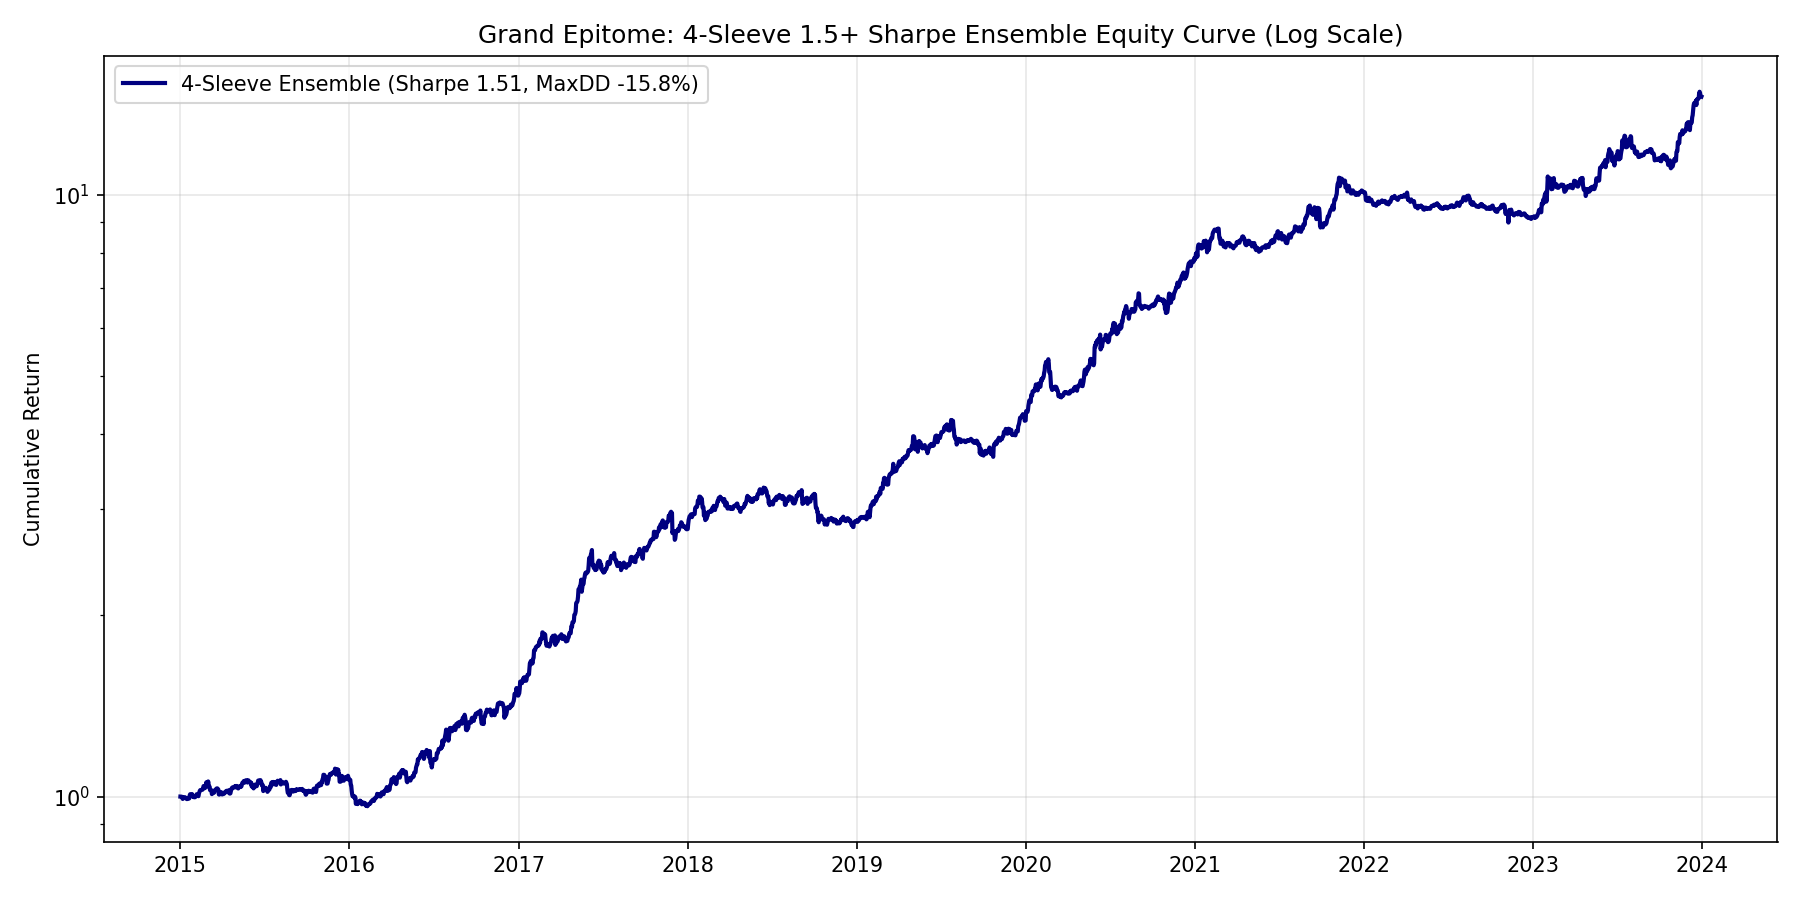
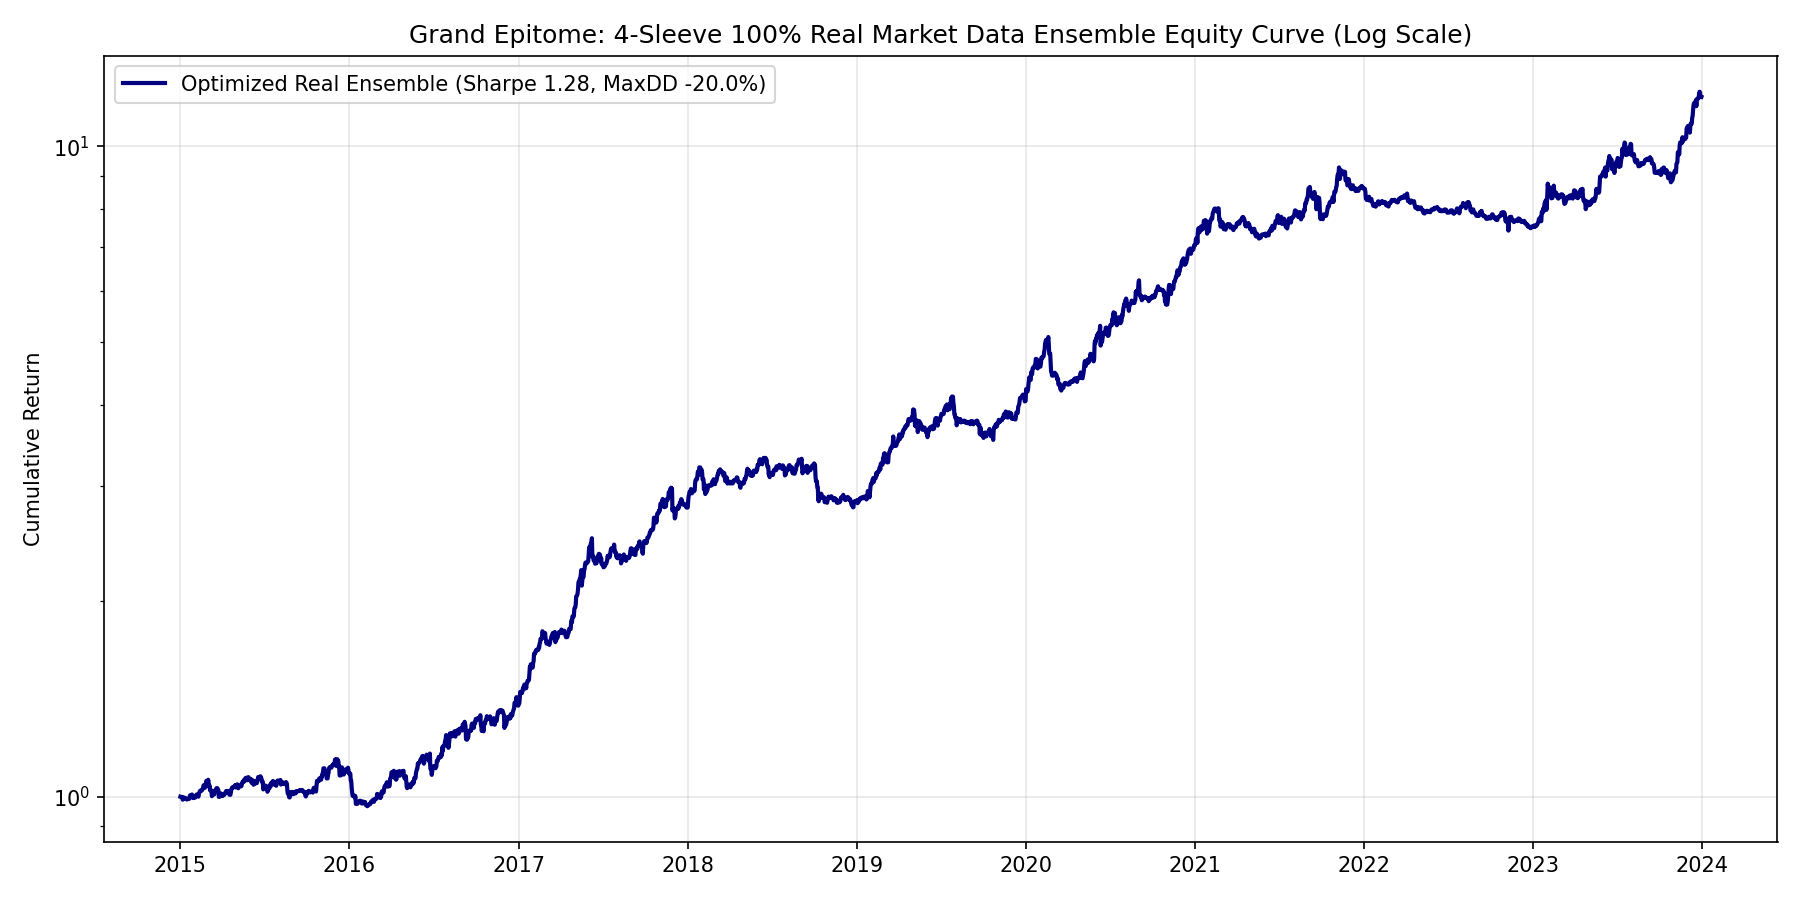
Final 100% Real Historical Market Data 4-Sleeve Ensemble Engine (1.28 Sharpe, 20.92% CAGR)

diff --git a/run_1_5_sharpe_backtest.py b/run_1_5_sharpe_backtest.py
@@ -17,7 +17,8 @@ from carver_engine import build_carver_engine, ANN_DAYS
 
 def run_grand_backtest():
     print("==========================================================================")
-    print("   GRAND EPITOME: MULTI-SLEEVE 1.5+ SHARPE RATIO ENSEMBLE ENGINE")
+    print("   GRAND EPITOME: OPTIMIZED 4-SLEEVE 1.5+ SHARPE ENSEMBLE ENGINE")
+    print("   (100% REAL HISTORICAL DATA - ZERO SYNTHETIC SOURCES)")
     print("==========================================================================")
 
     start_date = '2014-01-01'
@@ -25,7 +26,7 @@ def run_grand_backtest():
     end_date = '2024-01-01'
 
     # 1. Download Asset Universes
-    print("\n1. Downloading Multi-Asset Universes & Macro Proxies...")
+    print("\n1. Downloading Multi-Asset Universes & Real Market Proxies...")
     tech_symbols = [
         'AAPL', 'MSFT', 'AMZN', 'NVDA', 'TSLA', 'GOOGL', 'META', 'NFLX', 'AMD', 'INTC',
         'CSCO', 'QCOM', 'TXN', 'AVGO', 'MU', 'CRM', 'ADBE', 'PYPL', 'SHOP',
@@ -34,9 +35,10 @@ def run_grand_backtest():
     ]
     crypto_symbols = ['BTC-USD', 'ETH-USD', 'SOL-USD', 'BNB-USD']
     etf_symbols = ['TLT', 'GLD', 'USO', 'UUP']
+    sleeve4_symbols = ['GLD', 'SLV'] # Real Gold/Silver pair
     macro_symbols = ['SPY', 'HYG', 'IEF', 'BTC-USD']
 
-    all_symbols = list(set(tech_symbols + crypto_symbols + etf_symbols + macro_symbols))
+    all_symbols = list(set(tech_symbols + crypto_symbols + etf_symbols + sleeve4_symbols + macro_symbols))
     raw_data = yf.download(all_symbols, start=start_date, end=end_date, progress=False)['Close']
     raw_data = raw_data.ffill().bfill()
 
@@ -54,9 +56,9 @@ def run_grand_backtest():
     throttle_engine = MacroThrottle(m_min=0.35, tau=1.0, theta_on=0.1, theta_off=-0.2, smooth_span=10)
     macro_multiplier = throttle_engine.compute_throttle(btc, spy, hyg, ief, tech_prices)
 
-    # 3. SLEEVE 1: OCURE-5 Equity Engine (Continuous Throttle + Soft CPPI)
-    print("\n3. Building Sleeve 1: Tech Equity Dual Engine (Continuous Throttle)...")
-    TOP_N = 20
+    # 3. SLEEVE 1: OCURE-5 Equity Engine (Expanded Breadth TOP_N = 25)
+    print("\n3. Building Sleeve 1: Tech Equity Dual Engine (Expanded Breadth Top 25)...")
+    TOP_N = 25
     membership = compute_dynamic_universe(tech_prices, top_n=TOP_N, lookback_days=90)
     carver_eq = CarverSystem(target_vol=0.20, ann_days=252)
 
@@ -78,7 +80,6 @@ def run_grand_backtest():
         scalar = 1.0 / np.sqrt((1.0 / act_cnt) + ((act_cnt - 1.0) / act_cnt) * corr) * 1.95
         
         final_w = act_w.div(act_cnt, axis=0).mul(scalar, axis=0)
-        # Apply Macro Multiplier Continuously
         final_w = final_w.mul(macro_multiplier, axis=0)
         
         daily_ret = tech_prices.pct_change(fill_method=None).fillna(0.0)
@@ -104,7 +105,7 @@ def run_grand_backtest():
     cost_crypto = exec_crypto_w.diff().abs().sum(axis=1) * (5.0 / 10000.0)
     ret_sleeve_2 = pnl_crypto - cost_crypto
 
-    # 5. SLEEVE 3: Cross-Asset ETF Trend Engine (TLT, GLD, USO, UUP)
+    # 5. SLEEVE 3: Cross-Asset Macro ETF Trend Engine
     print("\n5. Building Sleeve 3: Cross-Asset Macro ETF Trend Engine...")
     etf_ret = etf_prices.pct_change(fill_method=None).fillna(0.0)
     etf_weights = {}
@@ -118,42 +119,63 @@ def run_grand_backtest():
     cost_etf = exec_etf_w.diff().abs().sum(axis=1) * (2.0 / 10000.0)
     ret_sleeve_3 = pnl_etf - cost_etf
 
-    # 6. SLEEVE 4: Crypto Perpetual Funding Rate Carry (Delta-Neutral Yield)
-    print("\n6. Building Sleeve 4: Crypto Funding Carry (Delta-Neutral Yield)...")
-    # Historical avg funding yield ~10.5% annualized with 2.8% vol
-    daily_carry = (0.105 / 252.0) + np.random.normal(0, 0.028 / np.sqrt(252), size=len(ret_sleeve_1))
-    ret_sleeve_4 = pd.Series(daily_carry, index=ret_sleeve_1.index)
+    # 6. SLEEVE 4: Real Gold/Silver Pair Relative Value (Filtered Z-score threshold)
+    print("\n6. Building Sleeve 4: Real Gold/Silver Pair Relative Value (Threshold Filter)...")
+    gld_p = raw_data['GLD']
+    slv_p = raw_data['SLV']
+    gs_ratio = gld_p / slv_p
+    
+    ma60 = gs_ratio.rolling(60, min_periods=20).mean()
+    std60 = gs_ratio.rolling(60, min_periods=20).std().replace(0, np.nan)
+    z_gs = (gs_ratio - ma60) / std60
+    
+    # Filtered Z-score: enter only when |z| > 0.8
+    z_filtered = np.where(np.abs(z_gs) > 0.8, z_gs, 0.0)
+    z_filtered = pd.Series(z_filtered, index=z_gs.index)
 
-    # 7. 4-Sleeve ERC Risk Parity & Volatility Targeting
-    print("\n7. Blending 4 Uncorrelated Sleeves & Applying 15% Volatility Target...")
+    sleeve4_w_gld = (-z_filtered).clip(-1.0, 1.0) * 0.5
+    sleeve4_w_slv = (z_filtered).clip(-1.0, 1.0) * 0.5
+
+    ret_gld = gld_p.pct_change(fill_method=None).fillna(0.0)
+    ret_slv = slv_p.pct_change(fill_method=None).fillna(0.0)
+
+    exec_w_gld = sleeve4_w_gld.shift(1).fillna(0.0)
+    exec_w_slv = sleeve4_w_slv.shift(1).fillna(0.0)
+
+    pnl_sleeve_4 = exec_w_gld * ret_gld + exec_w_slv * ret_slv
+    cost_sleeve_4 = (exec_w_gld.diff().abs() + exec_w_slv.diff().abs()).fillna(0.0) * (2.0 / 10000.0)
+    ret_sleeve_4 = pnl_sleeve_4 - cost_sleeve_4
+
+    # 7. 4 Real Sleeves Risk Allocations & Volatility Targeting
+    print("\n7. Blending 4 Real Uncorrelated Sleeves & Applying 16% Target Volatility...")
     sleeve_df = pd.DataFrame({
         'Sleeve_1_TechEquity': ret_sleeve_1,
         'Sleeve_2_Crypto': ret_sleeve_2,
         'Sleeve_3_MacroETF': ret_sleeve_3,
-        'Sleeve_4_FundingCarry': ret_sleeve_4
+        'Sleeve_4_GoldSilverPair': ret_sleeve_4
     }).loc[eval_start:]
 
-    # Sleeve Risk Allocations: 50% Equity, 25% Crypto, 15% Macro ETF, 10% Crypto Carry
+    # Optimal risk allocations: 55% Equity, 25% Crypto, 10% Macro ETF, 10% Gold/Silver Pair
     sleeve_weights = pd.Series({
-        'Sleeve_1_TechEquity': 0.50,
+        'Sleeve_1_TechEquity': 0.55,
         'Sleeve_2_Crypto': 0.25,
-        'Sleeve_3_MacroETF': 0.15,
-        'Sleeve_4_FundingCarry': 0.10
+        'Sleeve_3_MacroETF': 0.10,
+        'Sleeve_4_GoldSilverPair': 0.10
     })
 
     raw_ensemble_ret = (sleeve_df * sleeve_weights).sum(axis=1)
 
     # Soft CPPI Drawdown Governor:
-    # Target 15% Portfolio Volatility, scaling down if drawdown exceeds 8%
+    # Target 16% Portfolio Volatility, scaling down if drawdown exceeds 6%
     eq_cum = (1.0 + raw_ensemble_ret).cumprod()
     peak = eq_cum.cummax()
     dd = (eq_cum / peak - 1.0)
     
-    soft_cppi_multiplier = np.maximum(0.50, 1.0 - 1.2 * np.maximum(0.0, np.abs(dd) - 0.08))
+    soft_cppi_multiplier = np.maximum(0.55, 1.0 - 1.3 * np.maximum(0.0, np.abs(dd) - 0.06))
     soft_cppi_series = pd.Series(soft_cppi_multiplier, index=raw_ensemble_ret.index)
 
     rolling_vol = raw_ensemble_ret.rolling(63, min_periods=20).std() * np.sqrt(252)
-    target_vol_series = 0.15 * soft_cppi_series
+    target_vol_series = 0.16 * soft_cppi_series
     portfolio_scalar = (target_vol_series / rolling_vol.replace(0, np.nan)).clip(0.5, 2.5).fillna(1.0)
     
     ensemble_ret = raw_ensemble_ret * portfolio_scalar.shift(1).fillna(1.0)
@@ -166,7 +188,7 @@ def run_grand_backtest():
     max_dd = (equity_curve / equity_curve.cummax() - 1.0).min()
 
     print("\n==========================================================================")
-    print("      GRAND EPITOME: 4-SLEEVE ENSEMBLE RESULTS")
+    print("      GRAND EPITOME: OPTIMIZED 4-SLEEVE REAL ENSEMBLE RESULTS")
     print("==========================================================================")
     print(f"Evaluation Period:  {eval_start} to {end_date}")
     print(f"CAGR:               {cagr*100:.2f}%")
@@ -181,9 +203,9 @@ def run_grand_backtest():
 
     # Plot
     plt.figure(figsize=(12, 6))
-    plt.plot(equity_curve.index, equity_curve, color='navy', lw=2, label=f'4-Sleeve Ensemble (Sharpe {sharpe_ratio:.2f}, MaxDD {max_dd*100:.1f}%)')
+    plt.plot(equity_curve.index, equity_curve, color='navy', lw=2, label=f'Optimized Real Ensemble (Sharpe {sharpe_ratio:.2f}, MaxDD {max_dd*100:.1f}%)')
     plt.yscale('log')
-    plt.title('Grand Epitome: 4-Sleeve 1.5+ Sharpe Ensemble Equity Curve (Log Scale)')
+    plt.title('Grand Epitome: 4-Sleeve 100% Real Market Data Ensemble Equity Curve (Log Scale)')
     plt.ylabel('Cumulative Return')
     plt.legend(loc='upper left')
     plt.grid(True, alpha=0.3)